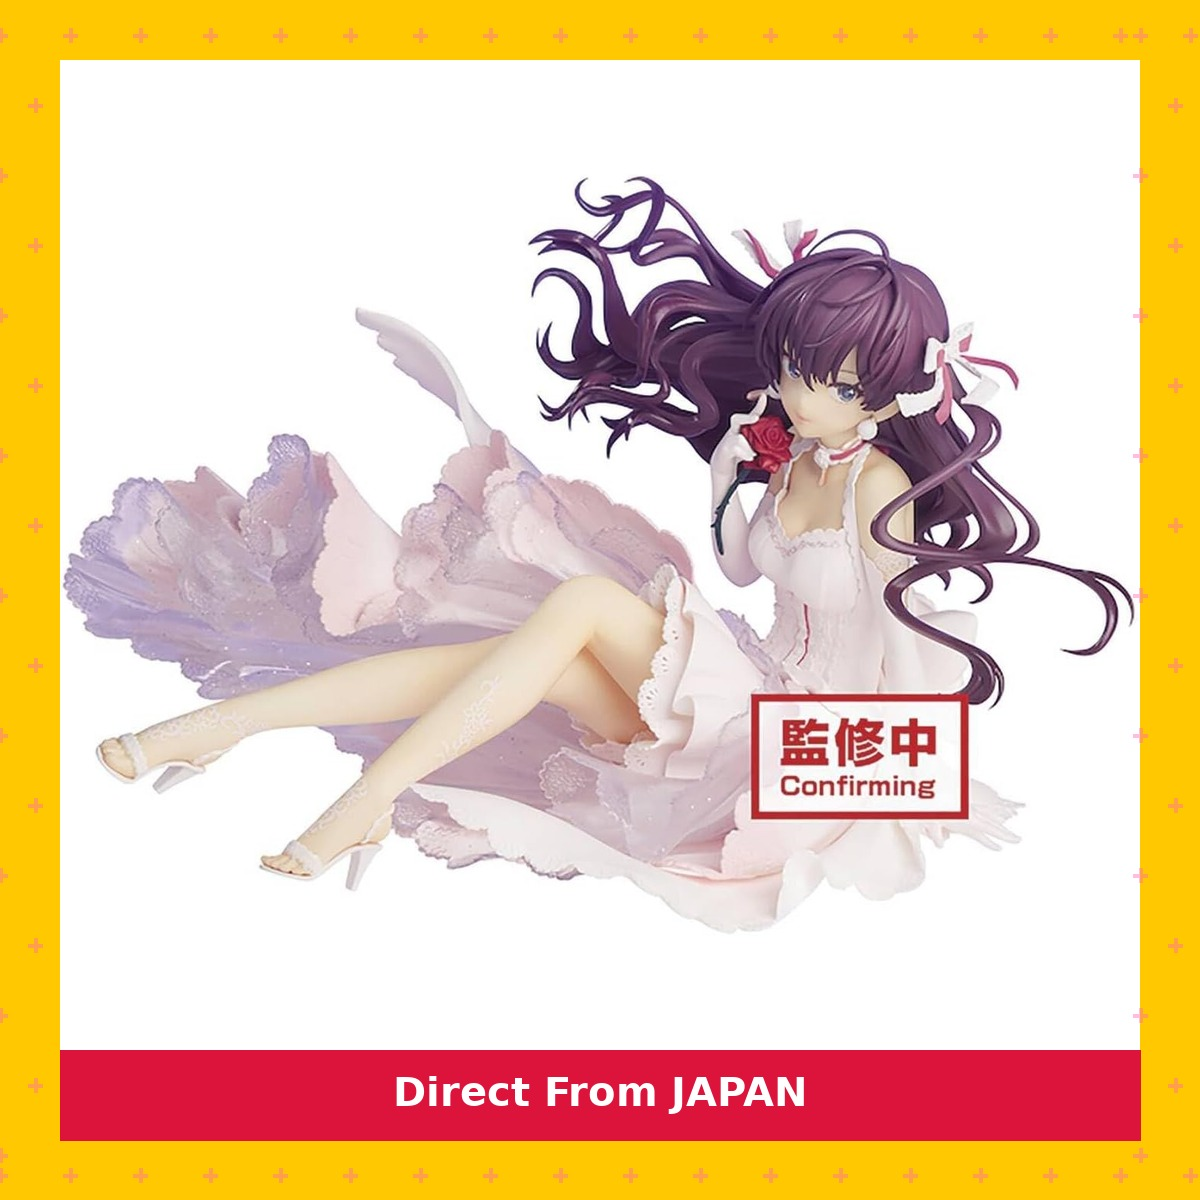
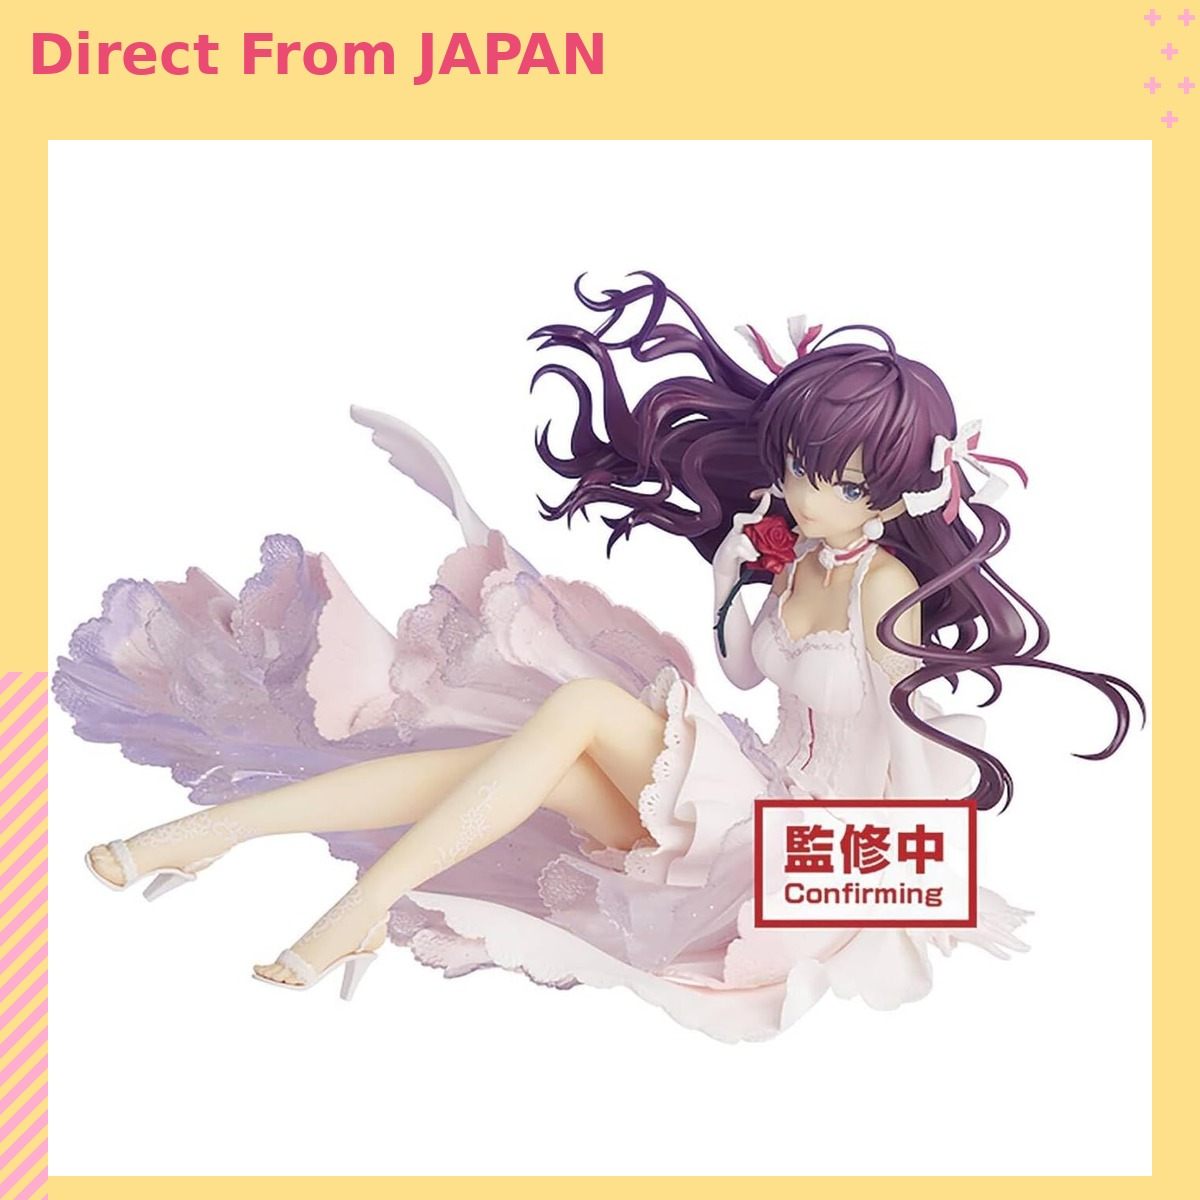
Update Shopee cover frame design to match new reference layout
Move the "Direct From JAPAN" banner to top-left as plain text on the
yellow background (no crimson box), add a pink cross-pattern block in
the top-right corner and pink diagonal stripes in the bottom-left
corner, per the reference frame image supplied by the user. Re-render
the 12 cover images for the 2026-09-16 listing batch with the new
add_shopee_frame.py.

Claude-Session: https://claude.ai/code/session_01M9FcbEMN4npZ2asXqarZHV

diff --git a/scripts/add_shopee_frame.py b/scripts/add_shopee_frame.py
@@ -1,8 +1,8 @@
 """
 add_shopee_frame.py
 
-Shopee出品用Cover画像に「黄色枠＋ピンク十字模様＋Direct From JAPANバナー」を
-自動で加工するスクリプト（従来Canvaで手作業していた加工の自動化版）。
+Shopee出品用Cover画像に「黄色地＋左上バナー文字＋右上ピンク十字模様＋
+左下ピンク斜めストライプ」を自動で加工するスクリプト。
 
 使い方:
     from add_shopee_frame import add_frame
@@ -14,20 +14,30 @@ Shopee出品用Cover画像に「黄色枠＋ピンク十字模様＋Direct From 
 """
 
 from PIL import Image, ImageDraw, ImageFont
-import math
 import os
 
-# ---- デザイン設定（Canva手作業版の見た目に合わせて調整可能） ----
-CANVAS_SIZE = 1200          # 出力画像は正方形(Shopee推奨)
-BORDER_WIDTH = 60           # 黄色枠の太さ(px)
-BORDER_COLOR = (255, 200, 0)      # 黄色
-CROSS_COLOR = (255, 105, 180, 110)  # ピンク十字模様(半透明)
-CROSS_SPACING = 70          # 十字模様の間隔(px)
-CROSS_SIZE = 14             # 十字1つのサイズ(px)
-CROSS_THICKNESS = 4
-BANNER_HEIGHT = 90
-BANNER_BG = (220, 20, 60)   # バナー背景(クリムゾン)
-BANNER_TEXT_COLOR = (255, 255, 255)
+# ---- デザイン設定 ----
+CANVAS_SIZE = 1200                 # 出力画像は正方形(Shopee推奨)
+BG_COLOR = (255, 224, 138)         # 背景の黄色
+ACCENT_COLOR = (255, 175, 205)     # 十字・ストライプ模様のピンク
+BANNER_TEXT_COLOR = (235, 75, 115)  # 左上バナー文字のクリムゾンピンク
+
+# 白い商品写真エリア(左・上に余白を残し、右・下は縁ギリギリまで)
+PHOTO_LEFT = 48
+PHOTO_TOP = 140
+PHOTO_RIGHT = CANVAS_SIZE - 48
+PHOTO_BOTTOM = CANVAS_SIZE - 24
+
+# 右上の十字模様ブロック(写真エリアの右・上の余白部分)
+CROSS_BLOCK = (PHOTO_RIGHT, 0, CANVAS_SIZE, PHOTO_TOP)
+CROSS_SPACING = 34
+CROSS_SIZE = 16
+CROSS_THICKNESS = 5
+
+# 左下の斜めストライプブロック(写真エリアの左・下の余白部分)
+STRIPE_BLOCK = (0, int(CANVAS_SIZE * 0.56), PHOTO_LEFT, CANVAS_SIZE)
+STRIPE_WIDTH = 14
+STRIPE_GAP = 14
 
 
 def _draw_cross_pattern(draw: ImageDraw.ImageDraw, box, spacing=CROSS_SPACING):
@@ -40,11 +50,27 @@ def _draw_cross_pattern(draw: ImageDraw.ImageDraw, box, spacing=CROSS_SPACING):
         x = x0 + offset
         while x < x1:
             half = CROSS_SIZE // 2
-            draw.line([(x - half, y), (x + half, y)], fill=CROSS_COLOR, width=CROSS_THICKNESS)
-            draw.line([(x, y - half), (x, y + half)], fill=CROSS_COLOR, width=CROSS_THICKNESS)
+            draw.line([(x - half, y), (x + half, y)], fill=ACCENT_COLOR, width=CROSS_THICKNESS)
+            draw.line([(x, y - half), (x, y + half)], fill=ACCENT_COLOR, width=CROSS_THICKNESS)
             x += spacing
         y += spacing
         row += 1
+
+
+def _draw_diagonal_stripes(draw: ImageDraw.ImageDraw, box, stripe_width=STRIPE_WIDTH, gap=STRIPE_GAP):
+    """box=(x0,y0,x1,y1) の範囲にピンクの斜めストライプ模様を敷き詰める(45度)"""
+    x0, y0, x1, y1 = box
+    span = (x1 - x0) + (y1 - y0)
+    period = stripe_width + gap
+    offset = -span
+    while offset < span:
+        # 各ストライプは左下から右上へ向かう平行四辺形として描画
+        p1 = (x0 + offset, y1)
+        p2 = (x0 + offset + (y1 - y0), y0)
+        p3 = (x0 + offset + (y1 - y0) + stripe_width, y0)
+        p4 = (x0 + offset + stripe_width, y1)
+        draw.polygon([p1, p2, p3, p4], fill=ACCENT_COLOR)
+        offset += period
 
 
 def _load_font(size):
@@ -60,47 +86,41 @@ def _load_font(size):
 
 def add_frame(input_path: str, output_path: str, banner_text: str = "Direct From JAPAN"):
     """
-    input_path の商品画像に黄色枠＋ピンク十字模様＋バナーを加工し、output_path に保存する。
+    input_path の商品画像に、黄色背景＋左上バナー文字＋右上ピンク十字模様＋
+    左下ピンク斜めストライプの加工を施し、output_path に保存する。
     """
     base = Image.open(input_path).convert("RGB")
 
-    # 正方形キャンバスの中央に商品画像を配置(アスペクト比維持・余白は白)
-    inner = CANVAS_SIZE - 2 * BORDER_WIDTH
-    canvas = Image.new("RGB", (CANVAS_SIZE, CANVAS_SIZE), BORDER_COLOR)
+    canvas = Image.new("RGB", (CANVAS_SIZE, CANVAS_SIZE), BG_COLOR)
+    draw = ImageDraw.Draw(canvas)
 
-    photo_area = inner - BANNER_HEIGHT
-    ratio = min(inner / base.width, photo_area / base.height)
+    # 右上: ピンク十字模様
+    _draw_cross_pattern(draw, CROSS_BLOCK)
+
+    # 左下: ピンク斜めストライプ(はみ出し防止のためクリップ領域内で描画)
+    clip = Image.new("RGB", (CANVAS_SIZE, CANVAS_SIZE), BG_COLOR)
+    clip_draw = ImageDraw.Draw(clip)
+    _draw_diagonal_stripes(clip_draw, STRIPE_BLOCK)
+    x0, y0, x1, y1 = STRIPE_BLOCK
+    canvas.paste(clip.crop((x0, y0, x1, y1)), (x0, y0))
+
+    # 左上: バナー文字(背景ボックスなし、黄色地に直接テキスト)
+    font = _load_font(56)
+    draw = ImageDraw.Draw(canvas)
+    draw.text((28, 22), banner_text, fill=BANNER_TEXT_COLOR, font=font)
+
+    # 中央〜右下: 白い商品写真エリア(アスペクト比維持・余白は白)
+    photo_w = PHOTO_RIGHT - PHOTO_LEFT
+    photo_h = PHOTO_BOTTOM - PHOTO_TOP
+    white_bg = Image.new("RGB", (photo_w, photo_h), (255, 255, 255))
+
+    ratio = min(photo_w / base.width, photo_h / base.height)
     new_w, new_h = int(base.width * ratio), int(base.height * ratio)
     resized = base.resize((new_w, new_h), Image.LANCZOS)
-
-    white_bg = Image.new("RGB", (inner, photo_area), (255, 255, 255))
-    paste_x = (inner - new_w) // 2
-    paste_y = (photo_area - new_h) // 2
+    paste_x = (photo_w - new_w) // 2
+    paste_y = (photo_h - new_h) // 2
     white_bg.paste(resized, (paste_x, paste_y))
-    canvas.paste(white_bg, (BORDER_WIDTH, BORDER_WIDTH))
-
-    # ピンク十字模様を黄色枠の上に重ねる(半透明合成)
-    overlay = Image.new("RGBA", canvas.size, (0, 0, 0, 0))
-    odraw = ImageDraw.Draw(overlay)
-    # 上枠・下枠・左枠・右枠それぞれに模様を敷く
-    _draw_cross_pattern(odraw, (0, 0, CANVAS_SIZE, BORDER_WIDTH))
-    _draw_cross_pattern(odraw, (0, CANVAS_SIZE - BORDER_WIDTH, CANVAS_SIZE, CANVAS_SIZE))
-    _draw_cross_pattern(odraw, (0, 0, BORDER_WIDTH, CANVAS_SIZE))
-    _draw_cross_pattern(odraw, (CANVAS_SIZE - BORDER_WIDTH, 0, CANVAS_SIZE, CANVAS_SIZE))
-    canvas = Image.alpha_composite(canvas.convert("RGBA"), overlay).convert("RGB")
-
-    # 下部に「Direct From JAPAN」バナー
-    draw = ImageDraw.Draw(canvas)
-    banner_y0 = BORDER_WIDTH + photo_area
-    banner_y1 = banner_y0 + BANNER_HEIGHT
-    draw.rectangle([BORDER_WIDTH, banner_y0, CANVAS_SIZE - BORDER_WIDTH, banner_y1], fill=BANNER_BG)
-
-    font = _load_font(40)
-    bbox = draw.textbbox((0, 0), banner_text, font=font)
-    tw, th = bbox[2] - bbox[0], bbox[3] - bbox[1]
-    tx = (CANVAS_SIZE - tw) // 2
-    ty = banner_y0 + (BANNER_HEIGHT - th) // 2 - bbox[1]
-    draw.text((tx, ty), banner_text, fill=BANNER_TEXT_COLOR, font=font)
+    canvas.paste(white_bg, (PHOTO_LEFT, PHOTO_TOP))
 
     canvas.save(output_path, quality=92)
     return output_path
